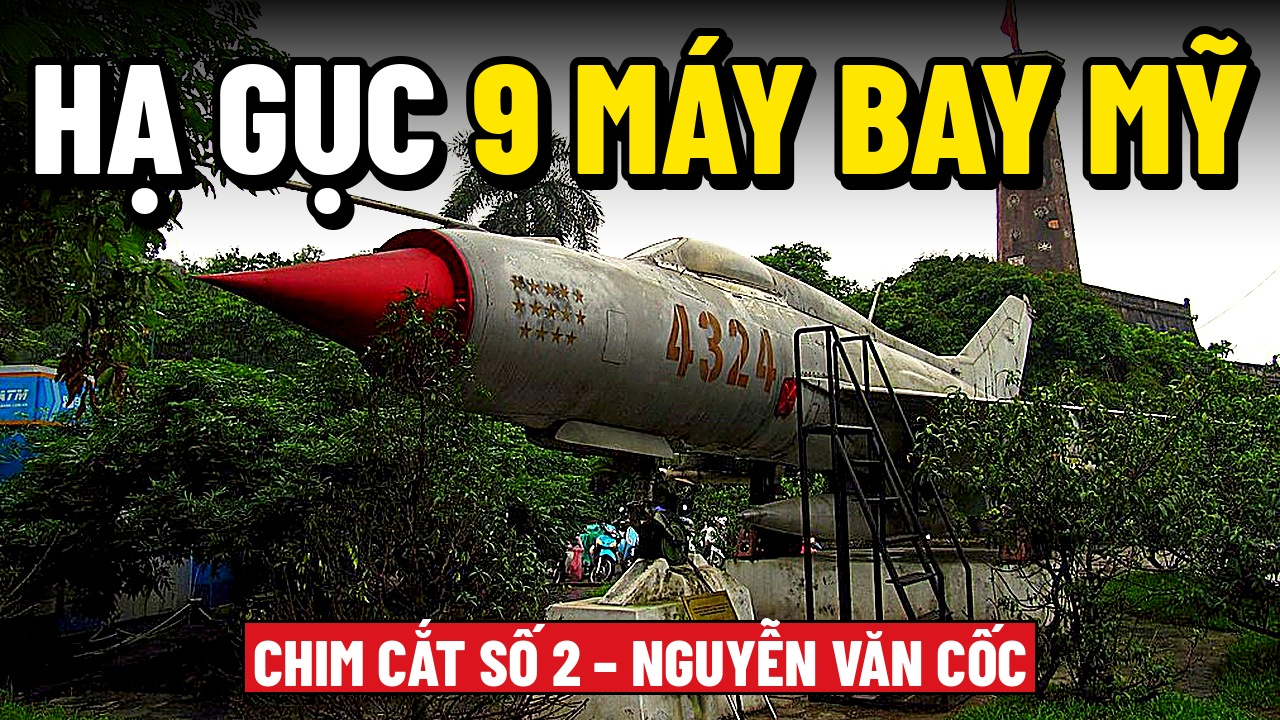
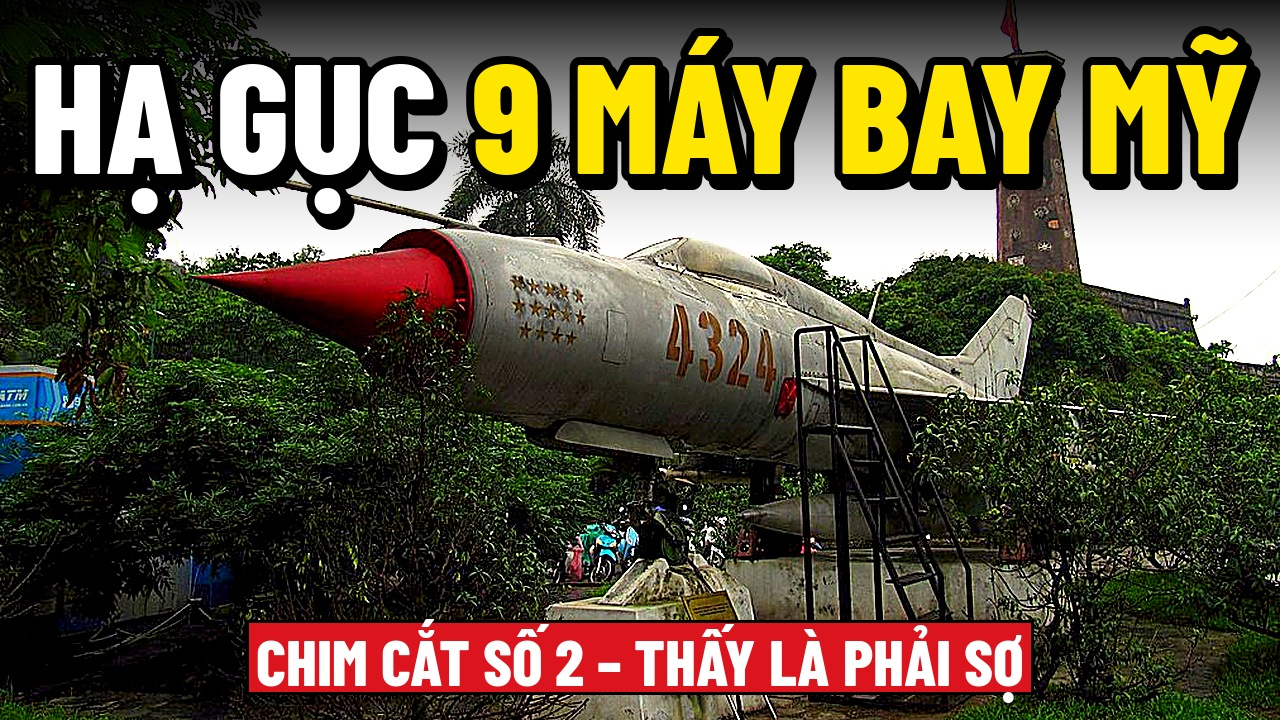
Nguyen Van Coc: thumbnail B tag text
Claude-Session: https://claude.ai/code/session_01JvG4R3Cs2ymAmnJ5tp5sN5

Changed region(s): [[0.1875, 0.8556, 0.8125, 0.9778]]

diff --git a/video/scripts/coc/make_thumb_tc.py b/video/scripts/coc/make_thumb_tc.py
@@ -12,5 +12,5 @@ if v == "a":
 else:
     im = base("../coc/photos/mig4324.jpg", (0, 50, 1012, 619))
     headline(im, [("HẠ GỤC", WHITE), ("9 MÁY BAY MỸ", YEL)])
-    tag(im, 640, 690, "CHIM CẮT SỐ 2 – NGUYỄN VĂN CỐC", bg=(220, 20, 30), fg=WHITE, size=64)
+    tag(im, 640, 690, "CHIM CẮT SỐ 2 – THẤY LÀ PHẢI SỢ", bg=(220, 20, 30), fg=WHITE, size=64)
     im.save("thumb-coc-B.jpg", quality=93)
